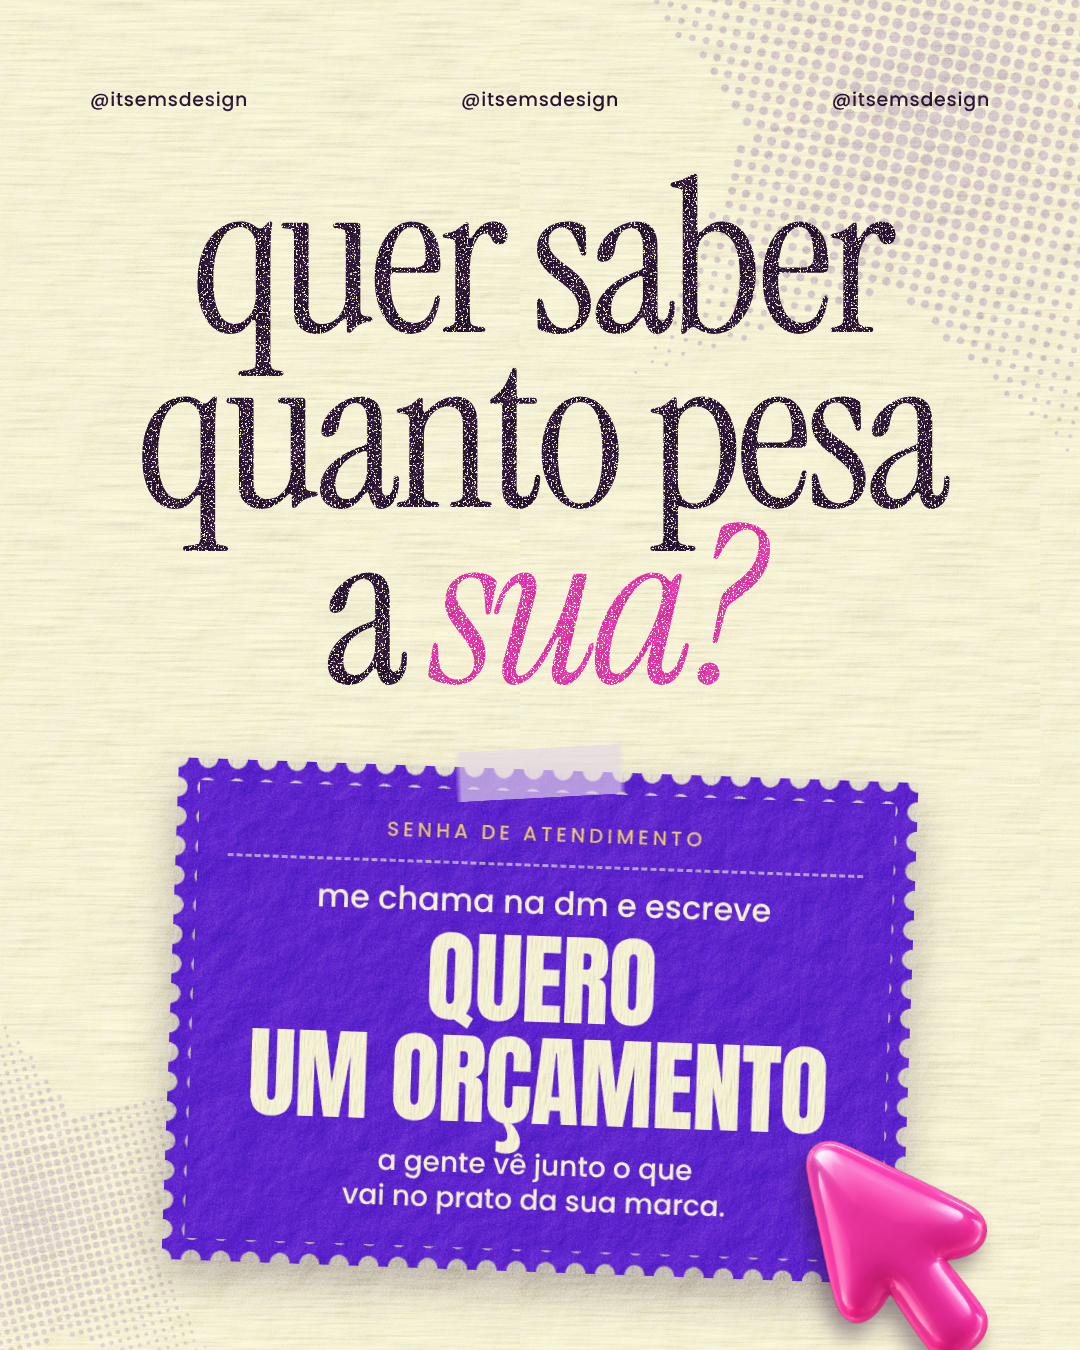
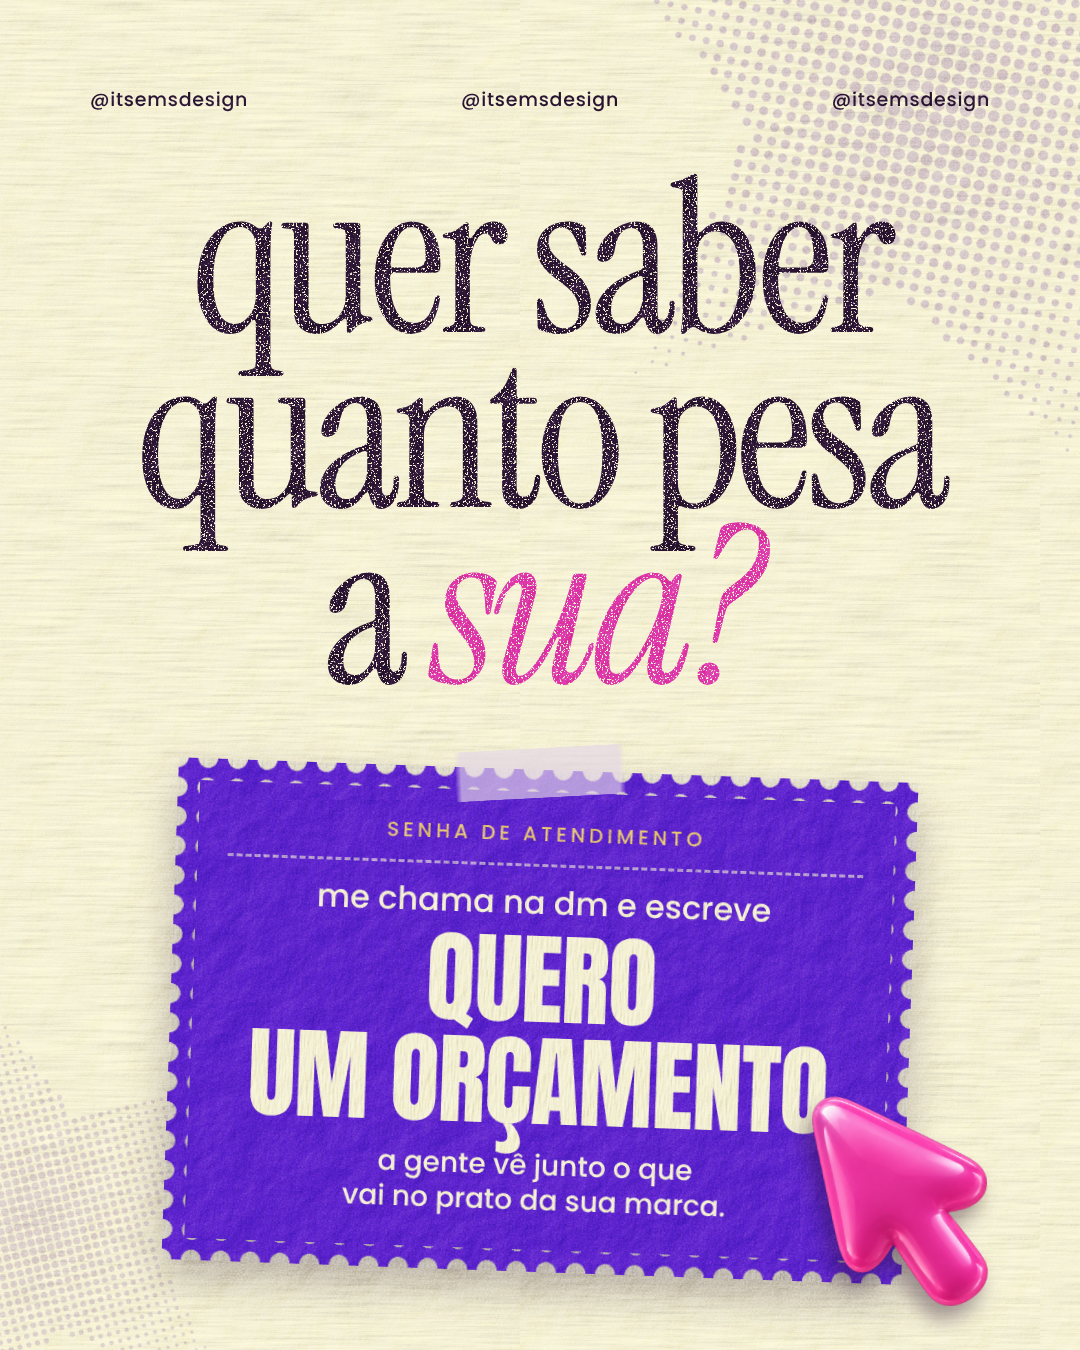
EMS quilo: cursor da chamada dentro da margem
Claude-Session: https://claude.ai/code/session_01CmCiK8vXoD4pXXU5H6drbd

Changed region(s): [[0.7333, 0.8089, 0.9167, 1.0]]

diff --git a/Emi/ems-serie-preco/projeto/laminas-quilo.html b/Emi/ems-serie-preco/projeto/laminas-quilo.html
@@ -161,7 +161,7 @@ const L={
     <div class="abs" style="inset:0;background-image:var(--tx-fibras);background-size:420px;mix-blend-mode:multiply;opacity:.25;pointer-events:none"></div>
   </div>
   ${fita(455,748,-3)}
-  <img class="abs" src="${P}cursor-rec.png" style="left:812px;top:1136px;width:176px;transform:rotate(-4deg);filter:drop-shadow(-8px 14px 10px rgba(42,20,51,.42));z-index:6">`,
+  <img class="abs" src="${P}cursor-rec.png" style="left:818px;top:1092px;width:170px;transform:rotate(-4deg);filter:drop-shadow(-8px 14px 10px rgba(42,20,51,.42));z-index:6">`,
 };
 const n=new URLSearchParams(location.search).get('n')||'2';
 document.getElementById('c').innerHTML=L[n]()+acab;
